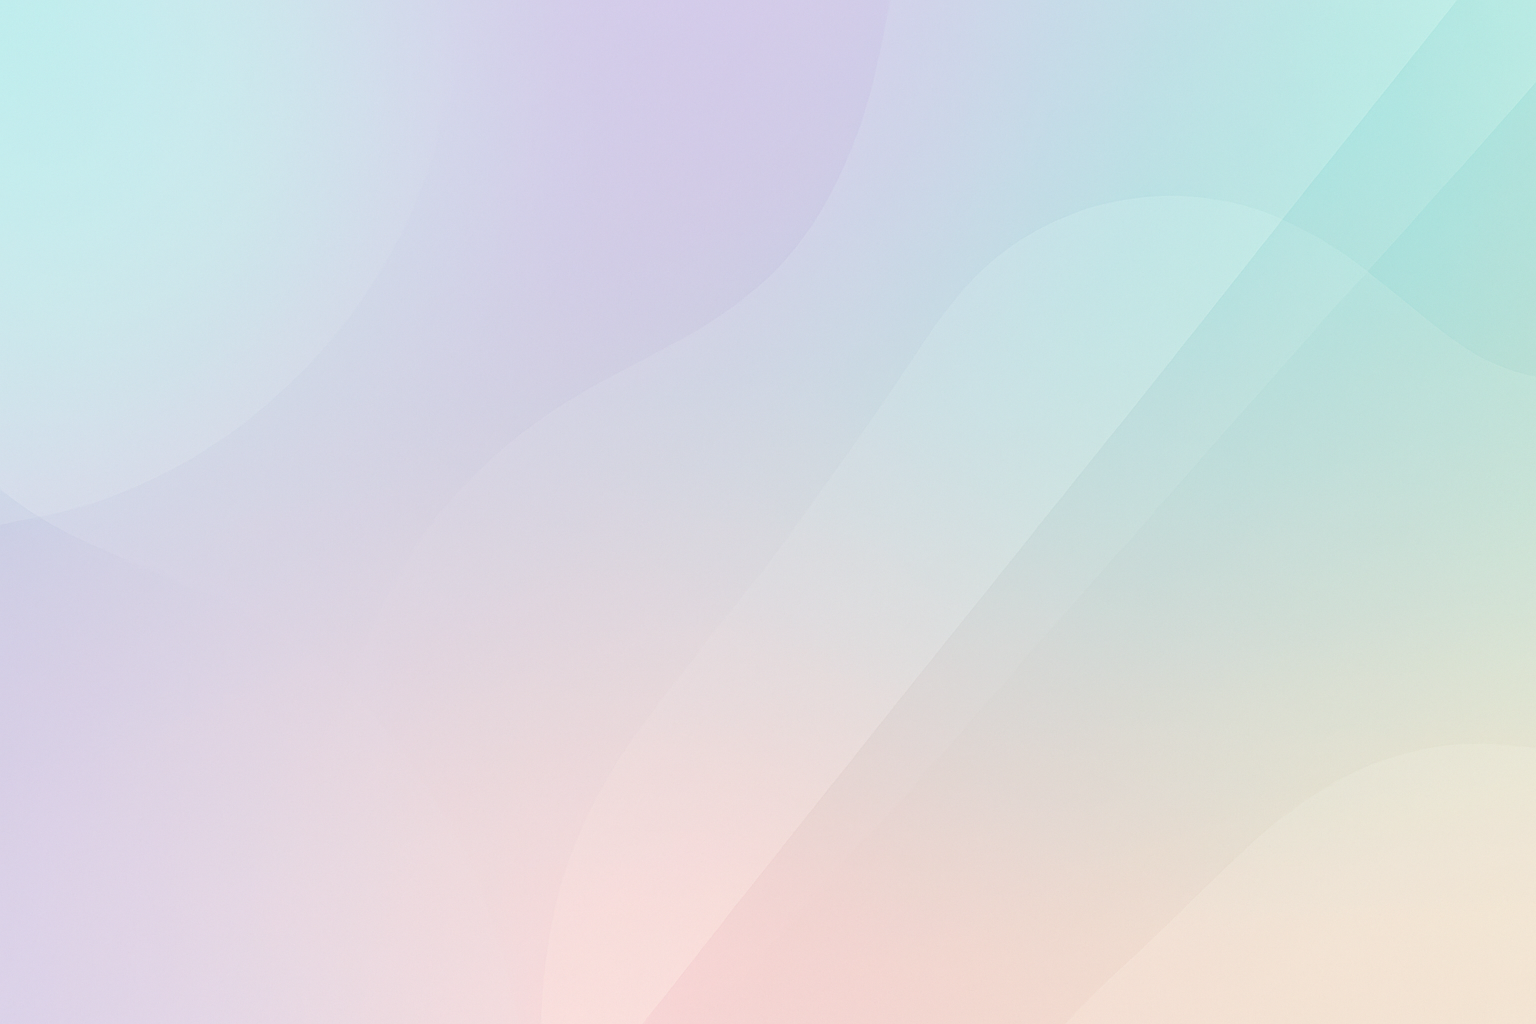
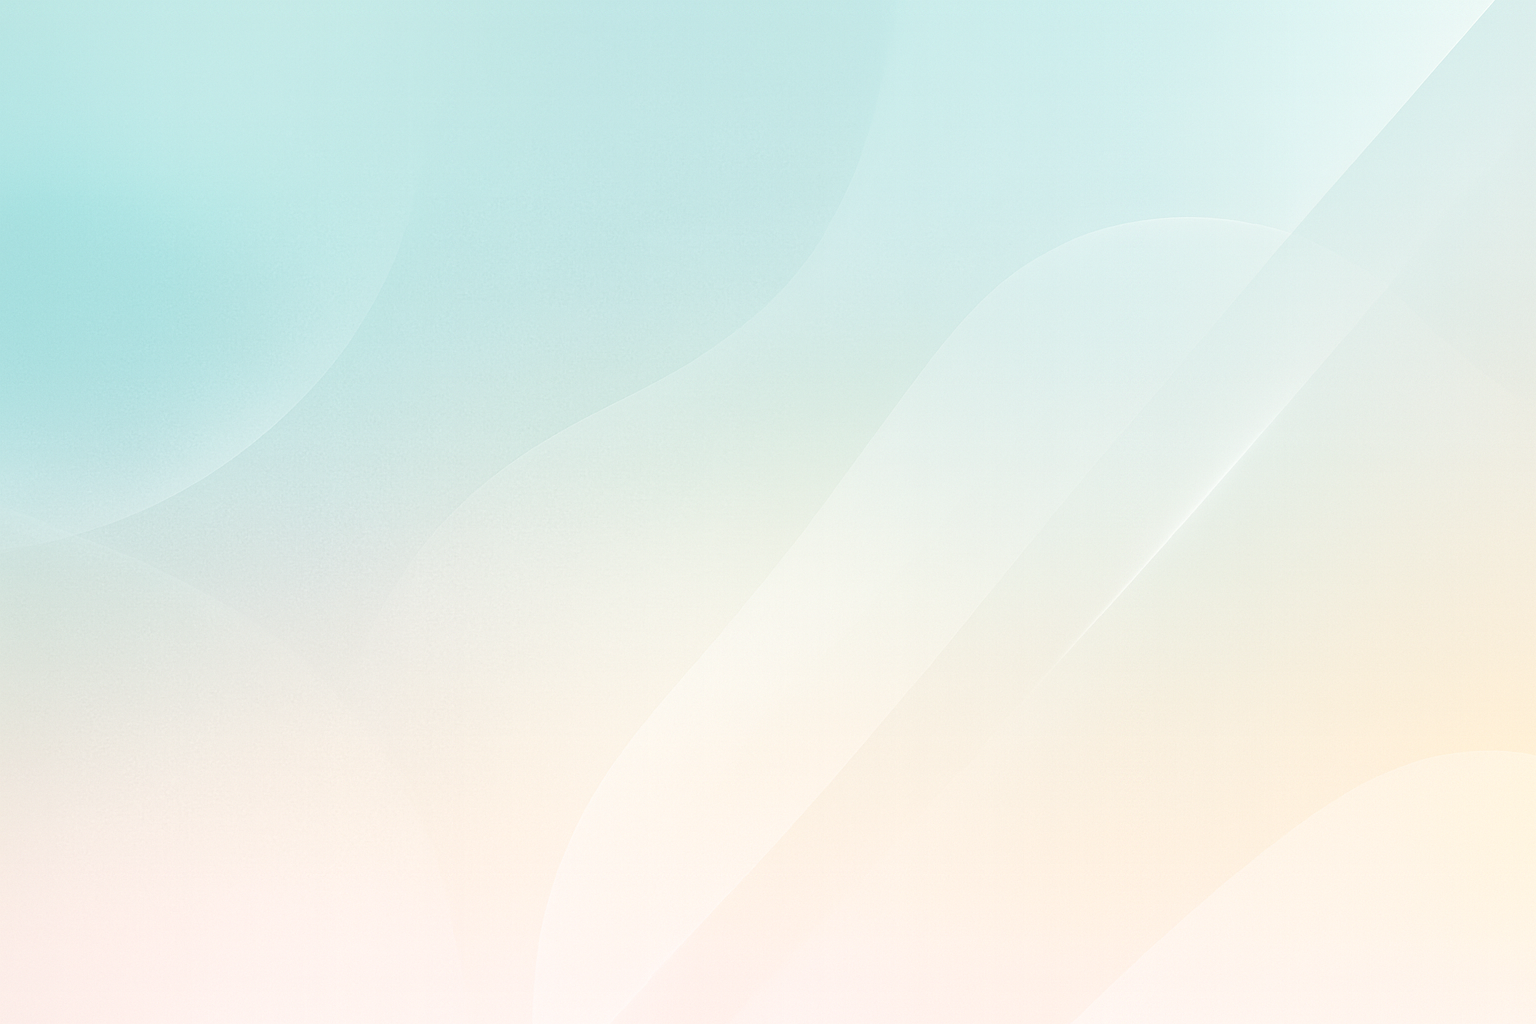
new background image was added profile image folder was moved to images folder

diff --git a/css/style.css b/css/style.css
@@ -1,165 +1,165 @@
-  .social-media a {
-    text-decoration: none;
-  }
+.social-media a {
+  text-decoration: none;
+}
 
-  .bg-custom {
-    background-color: #016a59;
-  }
+.bg-custom {
+  background-color: #016a59;
+}
 
-  .btn-custom {
-    background-color: #016a59;
-    color: white;
-    transition: all 0.3s ease;
-  }
+.btn-custom {
+  background-color: #016a59;
+  color: white;
+  transition: all 0.3s ease;
+}
 
-  .btn-custom:hover {
-    background-color: #014f40;
-    color: white;
-    transform: scale(1.08);
-    box-shadow: 0 8px 20px rgba(0, 124, 114, 0.4);
-  }
+.btn-custom:hover {
+  background-color: #014f40;
+  color: white;
+  transform: scale(1.08);
+  box-shadow: 0 8px 20px rgba(0, 124, 114, 0.4);
+}
 
-  .btn-hire {
-    background-color: #2e2e2e;
-    color: #fff;
-    transition: 0.3s ease;
-  }
+.btn-hire {
+  background-color: #2e2e2e;
+  color: #fff;
+  transition: 0.3s ease;
+}
 
-  .btn-hire:hover {
-    background-color: #000;
-    color: #fff;
-    transform: scale(1.05);
-  }
+.btn-hire:hover {
+  background-color: #000;
+  color: #fff;
+  transform: scale(1.05);
+}
 
-  .text-custom {
-    color: #016a59;
-  }
+.text-custom {
+  color: #016a59;
+}
 
-  #home img {
-    box-shadow: 0 0 25px #016a59;
-    transition: all 0.5s ease;
-  }
+#home img {
+  box-shadow: 0 0 25px #016a59;
+  transition: all 0.5s ease;
+}
 
-  #home img:hover {
-    box-shadow: 0 0 45px #01231d;
-    transform: scale(1.05);
-  }
+#home img:hover {
+  box-shadow: 0 0 45px #01231d;
+  transform: scale(1.05);
+}
 
-  .social-media a {
-    display: inline-flex;
-    justify-content: center;
-    align-items: center;
-    width: 50px;
-    height: 50px;
-    border: 2px solid #0a8f6a;
-    border-radius: 50%;
-    margin-right: 10px;
-    font-size: 20px;
-    color: #0a8f6a;
-    transition: all 0.4s ease;
-  }
+.social-media a {
+  display: inline-flex;
+  justify-content: center;
+  align-items: center;
+  width: 50px;
+  height: 50px;
+  border: 2px solid #0a8f6a;
+  border-radius: 50%;
+  margin-right: 10px;
+  font-size: 20px;
+  color: #0a8f6a;
+  transition: all 0.4s ease;
+}
 
-  .social-media a:hover {
-    background-color: #0a8f6a;
-    color: #fff;
-    transform: translateY(-6px) scale(1.15);
-    box-shadow: 0 10px 25px rgba(10, 143, 106, 0.4);
-  }
+.social-media a:hover {
+  background-color: #0a8f6a;
+  color: #fff;
+  transform: translateY(-6px) scale(1.15);
+  box-shadow: 0 10px 25px rgba(10, 143, 106, 0.4);
+}
 
-  .btn {
-    border-radius: 20px;
-  }
+.btn {
+  border-radius: 20px;
+}
 
-  .bg-my {
-    background-color: #d6fdf9;
-  }
+.bg-my {
+  background-color: #d6fdf9;
+}
 
-  #about {
-    min-height: 100vh;
-    width: 100%;
-  }
+#about {
+  min-height: 100vh;
+  width: 100%;
+}
 
-  section {
-    scroll-margin-top: 30px;
-  }
+section {
+  scroll-margin-top: 30px;
+}
 
-  .contact-input {
-    border: 2px solid #007c72;
-    border-radius: 8px;
-    padding: 12px;
-  }
+.contact-input {
+  border: 2px solid #007c72;
+  border-radius: 8px;
+  padding: 12px;
+}
 
-  form {
-    width: 70%;
-    max-width: 900px;
-  }
+form {
+  width: 70%;
+  max-width: 900px;
+}
 
-  .btn-my {
-    background-color: #007c72;
-    color: white;
-    padding: 10px 40px;
-    border-radius: 30px;
-    font-weight: 600;
-  }
+.btn-my {
+  background-color: #007c72;
+  color: white;
+  padding: 10px 40px;
+  border-radius: 30px;
+  font-weight: 600;
+}
 
-  .btn-my-1 {
-    background-color: rgb(84, 84, 84);
-    color: white;
-    padding: 10px 40px;
-    border-radius: 30px;
-    font-weight: 600;
-  }
+.btn-my-1 {
+  background-color: rgb(84, 84, 84);
+  color: white;
+  padding: 10px 40px;
+  border-radius: 30px;
+  font-weight: 600;
+}
 
-  .btn-my:hover {
-    background-color: #00685e;
-    color: #fff;
-  }
+.btn-my:hover {
+  background-color: #00685e;
+  color: #fff;
+}
 
-  .btn-my-1:hover {
-    background-color: rgb(67, 67, 67);
-    color: #fff;
-  }
+.btn-my-1:hover {
+  background-color: rgb(67, 67, 67);
+  color: #fff;
+}
 
-  .card {
-    overflow: hidden;
-    transition: all 0.5s ease;
-    border-radius: 20px;
-  }
+.card {
+  overflow: hidden;
+  transition: all 0.5s ease;
+  border-radius: 20px;
+}
 
-  .card:hover {
-    transform: translateY(-12px) scale(1.03);
-    box-shadow: 0 15px 45px rgba(0, 0, 0, 0.25);
-  }
+.card:hover {
+  transform: translateY(-12px) scale(1.03);
+  box-shadow: 0 15px 45px rgba(0, 0, 0, 0.25);
+}
 
-  .card img {
-    transition: transform 0.6s ease;
-  }
+.card img {
+  transition: transform 0.6s ease;
+}
 
-  .card:hover img {
-    transform: scale(1.12);
-  }
+.card:hover img {
+  transform: scale(1.12);
+}
 
-  .card:hover .btn-custom {
-    transform: translateY(-3px);
-    box-shadow: 0 5px 15px rgba(0, 0, 0, 0.25);
-  }
+.card:hover .btn-custom {
+  transform: translateY(-3px);
+  box-shadow: 0 5px 15px rgba(0, 0, 0, 0.25);
+}
 
-  #home {
-    background-image:url("/images/Project/back.png");
-      background-size: cover;
-       height: 100vh;
-  }
+#home {
+  background-image: url("../images/Project/BACK.png");
+  background-size: cover;
+  height: 100vh;
+}
 
-  .home-content h1{
-    font-size: 50px;
-    line-height: 1.1;
-  }
+.home-content h1 {
+  font-size: 50px;
+  line-height: 1.1;
+}
 
-  .home-content h3{
-    font-size: 32px;
-  }
-   
-  .about-content h1{
-    font-size: 60px;
-    line-height: 1.3;
-  }
+.home-content h3 {
+  font-size: 32px;
+}
+
+.about-content h1 {
+  font-size: 60px;
+  line-height: 1.3;
+}

diff --git a/index.html b/index.html
@@ -48,7 +48,7 @@
                 <div class="col-12 col-md-6 d-flex justify-content-center">
                     <img
                         class="rounded-circle"
-                        src="./profile_picture/Porfolio profile.png"
+                        src="./images/profile_picture/Porfolio profile.png"
                         alt="Profile Picture"
                         style="object-fit: cover; width: 500px; height: 500px;"
                     >
@@ -114,7 +114,7 @@
                     </div>
                 </div>
                 <div class="col-12 col-md-6 d-flex justify-content-center mt-4 mt-md-0" style="position: relative; left: 100px;">
-                    <img src="./profile_picture/abouy.png" alt="Profile Picture" style="width: 350px; height: 400px; ; border-radius: 20px;">
+                    <img src="./images/profile_picture/abouy.png" alt="Profile Picture" style="width: 350px; height: 400px; ; border-radius: 20px;">
                 </div>
             </div>
         </div>
